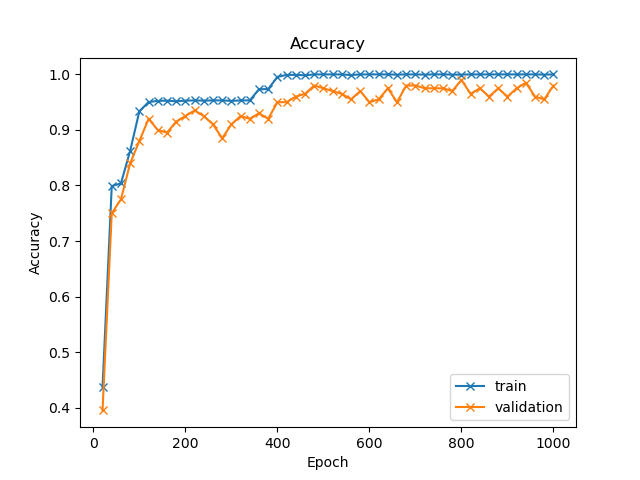
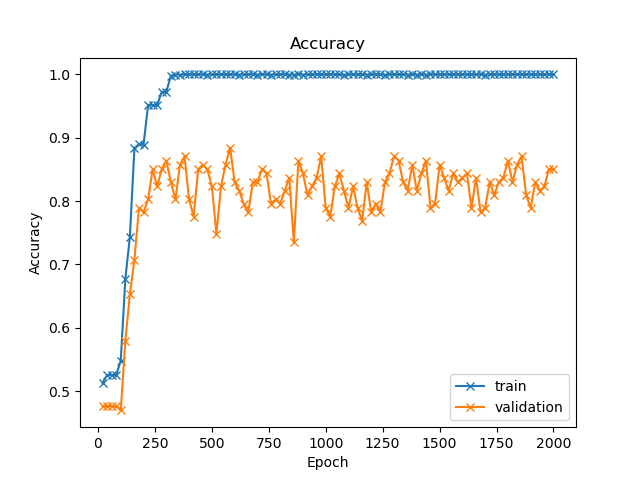
changing validation to be with separate patient (106) result plots

diff --git a/training/train.py b/training/train.py
@@ -14,7 +14,8 @@ N_EPOCHS = 1000
 WINDOW_SIZE = 10
 MINI_WINDOW_SIZE = 20
 
-SUBJECTS = [101, 102, 105, 106, 108, 109]
+TRAIN_SUBJECTS = [101, 102, 105, 108, 109]
+VAL_SUBJECTS = [106]
 # SUBJECTS = [105]
 
 def main():
@@ -23,21 +24,24 @@ def main():
     with open('data/metadata.json', 'r') as f:
         metadata = json.load(f)
 
-    datasets = [
+    train_datasets = [
         SensorFusionDataset(f'data/preprocessed/pamap2/{i}.npy', window_size=WINDOW_SIZE,
                             mini_window_size=MINI_WINDOW_SIZE)
-        for i in SUBJECTS
+        for i in TRAIN_SUBJECTS
     ]
-    ds = torch.utils.data.ConcatDataset(datasets)
-    n_train = int(.75 * len(ds))
-    n_val = len(ds) - n_train
-    train_ds, val_ds = torch.utils.data.random_split(ds, [n_train, n_val])
+    val_datasets = [
+        SensorFusionDataset(f'data/preprocessed/pamap2/{i}.npy', window_size=WINDOW_SIZE,
+                            mini_window_size=MINI_WINDOW_SIZE)
+        for i in VAL_SUBJECTS
+    ]
+    train_ds = torch.utils.data.ConcatDataset(train_datasets)
+    val_ds = torch.utils.data.ConcatDataset(val_datasets)
     val_ds = torch.utils.data.Subset(val_ds, indices=[i for i in range(len(val_ds))
                                                       if not val_ds[i]['augmented']])
     
     train_dl = DataLoader(train_ds, shuffle=True, batch_size=64)
     val_dl = DataLoader(val_ds, shuffle=True, batch_size=64)
-    model = AttnSense(metadata['pamap2']['sensor_groups'], datasets[0].labels.shape[1], datasets[0].n_freq,
+    model = AttnSense(metadata['pamap2']['sensor_groups'], train_datasets[0].labels.shape[1], train_datasets[0].n_freq,
                       device,
                       window_size=WINDOW_SIZE, mini_window_size=MINI_WINDOW_SIZE,
                       conv_dim=128).to(device)
